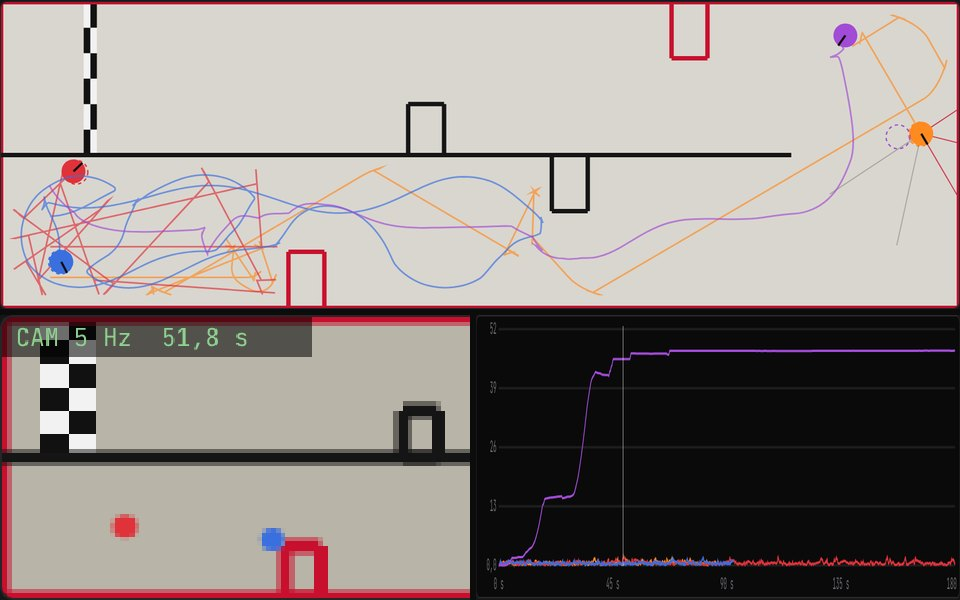
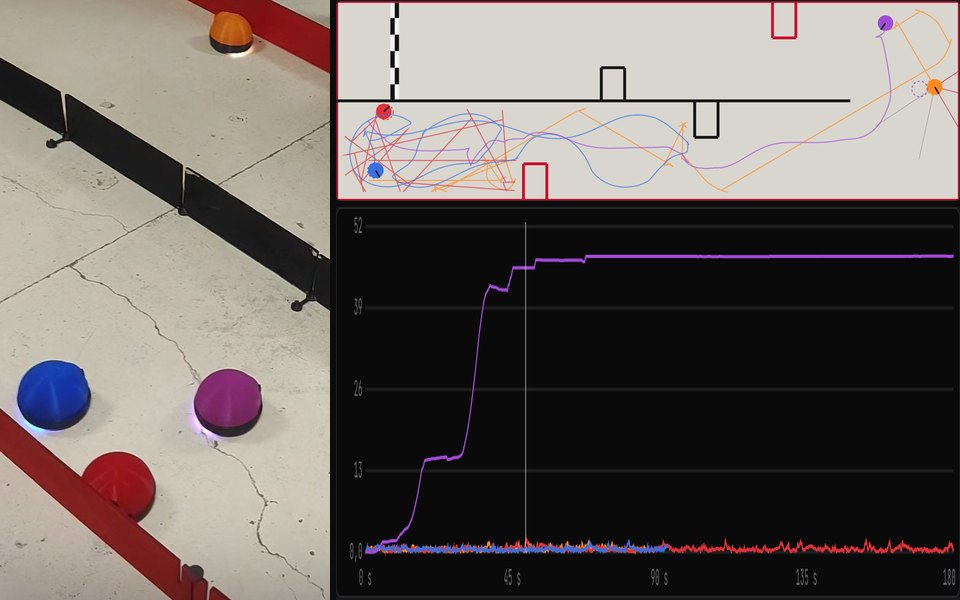
Course de robots : photo de la vraie course sur la carte et dans la démo

diff --git a/demos/course-robots/index.html b/demos/course-robots/index.html
@@ -88,6 +88,10 @@
     .sw { display: inline-block; width: 10px; height: 10px; border-radius: 50%; margin-right: 6px; vertical-align: -1px; }
     tr.me td { background: #1d1d20; } .dim { color: var(--muted); }
     .note a { color: var(--text); }
+    .real { display: grid; grid-template-columns: 220px minmax(0, 1fr); gap: 16px; align-items: center; margin-top: 16px; }
+    .real img { width: 100%; display: block; border-radius: 6px; border: 1px solid var(--border); }
+    .real p { color: var(--dim); font-size: 0.9rem; }
+    @media (max-width: 760px) { .real { grid-template-columns: minmax(0, 1fr); } .real img { max-width: 260px; } }
     @media (max-width: 1000px) { .grid { grid-template-columns: minmax(0, 1fr); } .main-col { order: -1; } }
     @media (max-width: 760px) { .kpis { grid-template-columns: repeat(3, minmax(0, 1fr)); } .row2 { grid-template-columns: minmax(0, 1fr); } .pins { grid-template-columns: repeat(2, minmax(0, 1fr)); } }
   </style>
@@ -102,6 +106,10 @@
     <h1 data-t="title">Course de robots autonomes : obstacles, localisation et stratégies</h1>
     <p class="intro" data-t="intro"></p>
     <p class="warnbox" data-t="warn"></p>
+    <div class="panel real">
+      <img src="img/course-tp.jpg" alt="" data-alt="realAlt">
+      <div><h2 data-t="realT">La vraie course (décembre 2024)</h2><p data-t="realP"></p></div>
+    </div>
     <div class="grid">
       <div class="stack"><div class="panel" id="ctl"></div></div>
       <div class="stack main-col">
@@ -140,6 +148,7 @@
         back: '← Retour au portfolio', eyebrow: "Démo · refaite de zéro en 2026, d'après une course de robots en TP (décembre 2024)", title: 'Course de robots autonomes : obstacles, localisation et stratégies',
         intro: "En TP, des petits robots autonomes faisaient la course sur une piste bordée de barrières : rouges sur le bord, noires au milieu. Chaque robot devait aller seul jusqu'à l'arrivée, en détectant les barrières, en reculant quand il touchait, et en repartant du bon côté selon la couleur ; une caméra au plafond permettait de suivre la course sur l'ordinateur. J'avais le robot orange et j'ai gagné. Le programme d'origine est perdu : cette démo refait tout de zéro, avec un modèle de robot, ses capteurs, et cinq stratégies qui s'affrontent.",
         warn: "Simulation refaite en 2026 : ce n'est pas mon programme de 2024 (perdu). Valeurs du robot, des capteurs et de la caméra SUPPOSÉES (ordres de grandeur, voir les notes). La stratégie « couleurs » reprend la règle de la course telle que je m'en souviens.",
+        realT: 'La vraie course (décembre 2024)', realAlt: 'Photo de la course en TP : barrières rouges sur le bord, noires au milieu, robots orange, bleu, violet et rouge', realP: "Image tirée de ma vidéo de la course : barrières rouges sur le bord, noires au milieu, et les robots en dôme. Le mien est l'orange, en haut, déjà engagé dans la ligne droite du retour : il a gagné. La simulation ci-dessous reprend cette piste et la règle des couleurs.",
         pause: 'Pause', play: 'Reprendre', again: 'Nouvelle course', speed: 'Vitesse',
         trackHint: "Vue de dessus, piste de 4 m × 1,2 m : départ en bas à gauche, demi-tour au bout de la barrière noire, arrivée en haut à gauche (damier). Trait plein : trajet réel ; cercle pointillé : là où le robot croit être. Les rayons sont les télémètres du robot orange.",
         camT: "Ce que voit l'ordinateur (caméra au plafond)", camHint: "L'image de la caméra est pixelisée (2 cm par pixel) et ne se rafraîchit que 5 fois par seconde : la position mesurée saute et tremble. Le filtre de Kalman la fusionne avec les codeurs des roues.",
@@ -162,6 +171,7 @@
         back: '← Back to portfolio', eyebrow: 'Demo · rebuilt from scratch in 2026, from a robot race in a lab (December 2024)', title: 'Autonomous robot race: obstacles, localisation and strategies',
         intro: 'In a lab, small autonomous robots raced on a track lined with barriers: red on the edge, black in the middle. Each robot had to reach the finish on its own, detecting the barriers, backing off on contact and setting off again on the right side depending on the colour; a ceiling camera let us follow the race on the computer. I had the orange robot and I won. The original program is lost: this demo rebuilds everything from scratch, with a robot model, its sensors and five competing strategies.',
         warn: 'Simulation rebuilt in 2026: this is not my 2024 program (lost). Robot, sensor and camera values are ASSUMED (orders of magnitude, see the notes). The “colours” strategy follows the race rule as I remember it.',
+        realT: 'The real race (December 2024)', realAlt: 'Photo of the lab race: red barriers on the edge, black in the middle, orange, blue, purple and red robots', realP: 'Frame from my video of the race: red barriers on the edge, black in the middle, and the dome robots. Mine is the orange one at the top, already on the return straight: it won. The simulation below uses this track and the colour rule.',
         pause: 'Pause', play: 'Resume', again: 'New race', speed: 'Speed',
         trackHint: 'Top view, 4 m × 1.2 m track: start bottom left, U-turn at the end of the black barrier, finish top left (checkerboard). Solid line: actual path; dashed circle: where the robot thinks it is. The rays are the orange robot range sensors.',
         camT: 'What the computer sees (ceiling camera)', camHint: 'The camera image is pixelated (2 cm per pixel) and refreshes only 5 times per second: the measured position jumps and jitters. The Kalman filter fuses it with the wheel encoders.',
@@ -289,6 +299,7 @@
     function setLang(l) {
       lang = l; document.documentElement.lang = l;
       document.querySelectorAll('[data-t]').forEach((el) => { const v = T[l][el.dataset.t]; if (typeof v === 'string') el.textContent = v; });
+      document.querySelectorAll('[data-alt]').forEach((el) => { const v = T[l][el.dataset.alt]; if (typeof v === 'string') el.alt = v; });
       document.querySelectorAll('.lang button').forEach((b) => b.setAttribute('aria-pressed', b.dataset.lang === l));
       try { localStorage.setItem('lang', l); } catch (e) {}
       $('play').textContent = running ? t('pause') : t('play');

diff --git a/traduction-anglais.js b/traduction-anglais.js
@@ -118,7 +118,7 @@ window.I18N_EN = {
   'p44.date': 'Dec 2024 · 2026',
   'p44.title': 'Autonomous robot race: obstacles, localisation and strategies',
   'p44.desc': "In a lab, autonomous robots raced on a track with red (edge) and black (middle) barriers; I had the orange robot and I won. The program was lost, so I rebuilt everything from scratch: a two-wheeled robot with bumper, range sensors, colour sensor and encoders, drifting odometry, a pixelated ceiling camera and a Kalman filter to fuse both. Five strategies compete (the lab colour rule, random bounce, wall following, Bug2, potential field) on three tracks, with statistics over 30 races. 220 tests.",
-  'p44.img': "Simulated autonomous robot race: top view of the track with red and black barriers, pixelated ceiling camera image and each robot's localisation error",
+  'p44.img': "Photo of the real lab race (my orange robot) and the rebuilt simulation: track with red and black barriers, pixelated ceiling camera, localisation error",
   'p43.date': 'Nov 2022',
   'p43.title': 'Connected house: temperature control',
   'p43.desc': "My task, done on my own: control a room's temperature with a Grove sensor (thermistor), a relay for the heater plate, a fan and an LCD screen. SysML diagrams, information and power chains, flowcharts, Arduino program and wiring. Reviewed in 2026: thresholds that are too close make the relay chatter (about 3,000 switchings per simulated day), an unplugged sensor reads −273.15 °C and leaves the heater on, and some pin names are misleading. The demo runs my 2022 program and a corrected version side by side. 62 tests.",

diff --git a/index.html b/index.html
@@ -337,7 +337,7 @@
           </div>
         </article>
         <article class="project-card project-card--wide" data-tags="robotique automatique web">
-          <div class="card-media"><img src="assets/projets/course-robots.jpg" alt="Course de robots autonomes simulée : piste aux barrières rouges et noires vue de dessus, image pixelisée de la caméra au plafond et erreur de localisation de chaque robot" data-i18n-attr="alt:p44.img" width="960" height="600" loading="lazy" decoding="async"></div>
+          <div class="card-media"><img src="assets/projets/course-robots.jpg" alt="Photo de la vraie course en TP (mon robot orange) et la simulation refaite : piste aux barrières rouges et noires, caméra au plafond pixelisée, erreur de localisation" data-i18n-attr="alt:p44.img" width="960" height="600" loading="lazy" decoding="async"></div>
           <div class="card-top">
             <span class="card-type" data-i18n="tag.robotics">Robotique</span>
             <span class="card-date" data-i18n="p44.date">Déc. 2024 · 2026</span>
